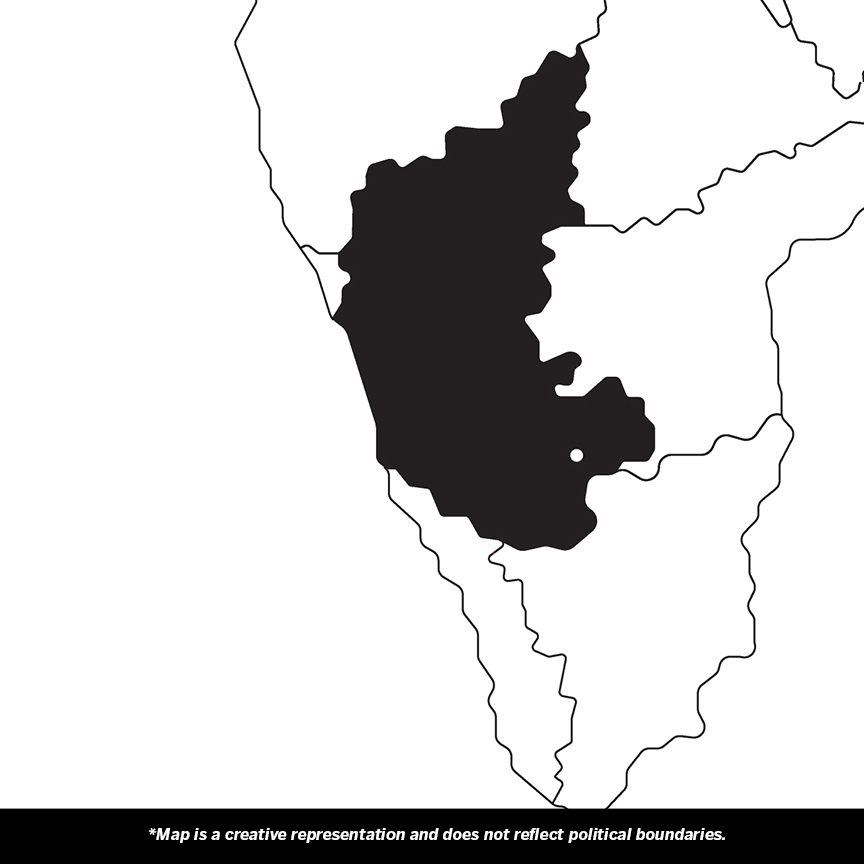
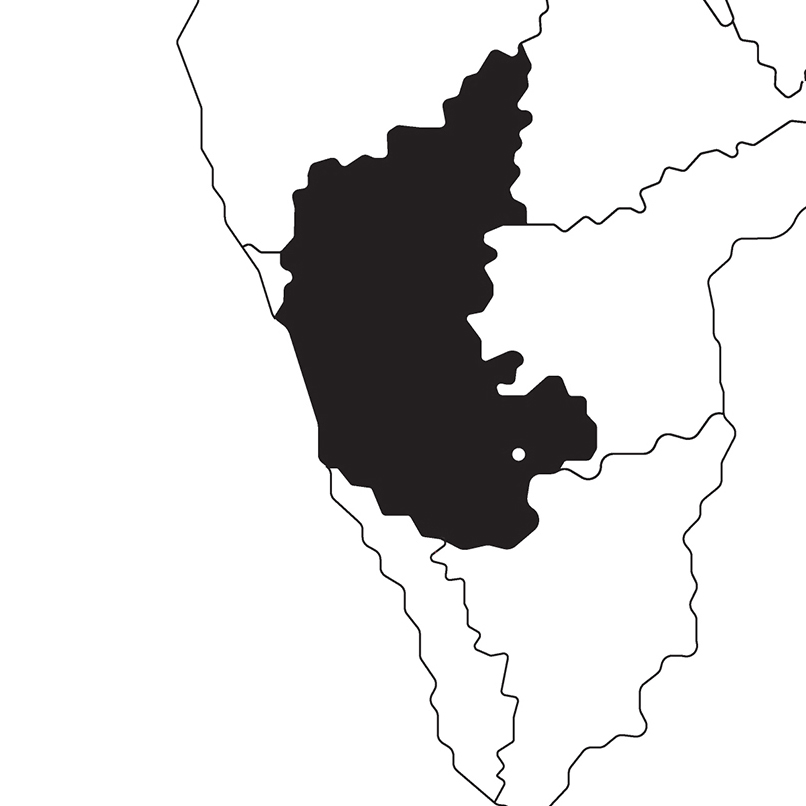
updated region images and connection to google analytics.

diff --git a/src/App.tsx b/src/App.tsx
@@ -27,54 +27,57 @@ import AdminLayout from "./admin/AdminLayout";
 import AdminDashboard from "./admin/AdminDashboard";
 import UsersPage from "./admin/UsersPage";
 import RatingsPage from "./admin/RatingsPage";
+import { useEffect } from "react";
 // import SettingsPage from "./admin/SettingsPage";
+import ReactGA from "react-ga4";
 
 const queryClient = new QueryClient();
 
-const App = () => (
-  <QueryClientProvider client={queryClient}>
-    <TooltipProvider>
-      <Toaster position="top-center"/>
-      {/* <Sonner position="top-center"/> */}
-      <UserProvider>
-        <BrowserRouter>
-          <RouteTracker />
-          {/* <div className="items-center justify-center"> */}
-          <Routes>
-            {/* Admin Routes (protected) */}
-            <Route element={<AuthGuard adminOnly />}>
-              <Route path="/admin" element={<AdminLayout />}>
-                <Route index element={<AdminDashboard />} />
-                <Route path="users" element={<UsersPage />} />
-                <Route path="ratings" element={<RatingsPage />} />
-                {/* <Route path="settings" element={<SettingsPage />} /> */}
+const App = () => {
+  useEffect(() => {
+    ReactGA.initialize("G-9KGQHWBWZH");
+  }, []);
+
+  return (
+    <QueryClientProvider client={queryClient}>
+      <TooltipProvider>
+        <Toaster position="top-center"/>
+        {/* <Sonner position="top-center"/> */}
+        <UserProvider>
+          <BrowserRouter>
+            <RouteTracker />
+            <Routes>
+              {/* Admin Routes (protected) */}
+              <Route element={<AuthGuard adminOnly />}>
+                <Route path="/admin" element={<AdminLayout />}>
+                  <Route index element={<AdminDashboard />} />
+                  <Route path="users" element={<UsersPage />} />
+                  <Route path="ratings" element={<RatingsPage />} />
+                  {/* <Route path="settings" element={<SettingsPage />} /> */}
+                </Route>
               </Route>
-            </Route>
-
-            {/* Public login route */}
-            <Route path="/" element={<Login />} />
-
-            {/* Protected user flow */}
-            <Route element={<AuthGuard />}>
-              <Route path="/terms" element={<TermsAndConditions />} />
-              <Route path="/process" element={<ProcessDescription />} />
-              <Route path="/regions" element={<VotingRegions />} />
-              <Route path="/regional-selection" element={<RegionalSelection />} />
-              <Route path="/national-selection" element={<NationalSelection />} />
-              <Route path="/restaurant-review" element={<RestaurantReview />} />
-              <Route path="/rating" element={<RatingPage />} />
-              <Route path="/final-ratings" element={<FinalRatings />} />
-            </Route>
-
-            {/* Completion & fallback */}
-            <Route path="/thank-you" element={<ThankYou />} />
-            <Route path="*" element={<NotFound />} />
-          </Routes>
-          {/* </div> */}
-        </BrowserRouter>
-      </UserProvider>
-    </TooltipProvider>
-  </QueryClientProvider>
-);
+              {/* Public login route */}
+              <Route path="/" element={<Login />} />
+              {/* Protected user flow */}
+              <Route element={<AuthGuard />}>
+                <Route path="/terms" element={<TermsAndConditions />} />
+                <Route path="/process" element={<ProcessDescription />} />
+                <Route path="/regions" element={<VotingRegions />} />
+                <Route path="/regional-selection" element={<RegionalSelection />} />
+                <Route path="/national-selection" element={<NationalSelection />} />
+                <Route path="/restaurant-review" element={<RestaurantReview />} />
+                <Route path="/rating" element={<RatingPage />} />
+                <Route path="/final-ratings" element={<FinalRatings />} />
+              </Route>
+              {/* Completion & fallback */}
+              <Route path="/thank-you" element={<ThankYou />} />
+              <Route path="*" element={<NotFound />} />
+            </Routes>
+          </BrowserRouter>
+        </UserProvider>
+      </TooltipProvider>
+    </QueryClientProvider>
+  );
+};
 
 export default App;

diff --git a/src/pages/Login.tsx b/src/pages/Login.tsx
@@ -3,12 +3,18 @@ import { useNavigate } from "react-router-dom";
 import { Button } from "@/components/ui/button";
 import { Input } from "@/components/ui/input";
 import { supabase } from "@/lib/supabaseClient";
+import ReactGA from "react-ga4";
+import { useEffect } from "react";
 
 const Login = () => {
   const [username, setUsername] = useState("");
   const [password, setPassword] = useState("");
   const [error, setError] = useState("");
   const navigate = useNavigate();
+
+  // useEffect(() => {
+  //   ReactGA.send({ hitType: "pageview", page: "/login", title: "Login Page" });
+  // }, []);
 
   const handleLogin = async (e: React.FormEvent) => {
     e.preventDefault();
@@ -42,6 +48,13 @@ const Login = () => {
       setError("Failed to fetch user metadata.");
       return;
     }
+
+    // Track successful login
+    ReactGA.event({
+      category: "User",
+      action: "Login",
+      label: user.email || user.id,
+    });
 
     // ✅ Redirect based on last visited page or fallback
   if (userMeta.is_admin) {
@@ -106,7 +119,7 @@ const Login = () => {
         </div>
 
         <div className="text-center text-xs md:text-sm text-gray-600 mt-10">
-          You have till 11:59 pm Sunday 30th June to fill this form
+        You have till 11:59 pm on Sunday, 31st July to vote
         </div>
       </div>
     </div>
